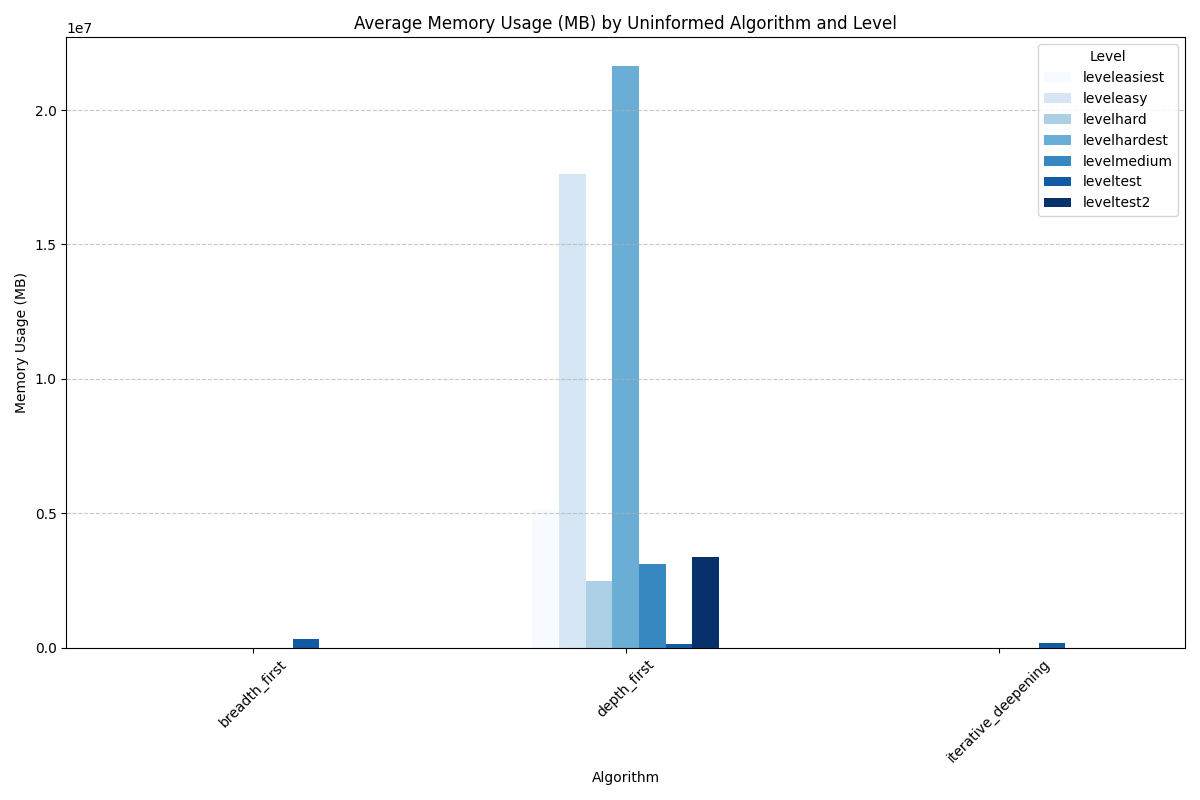
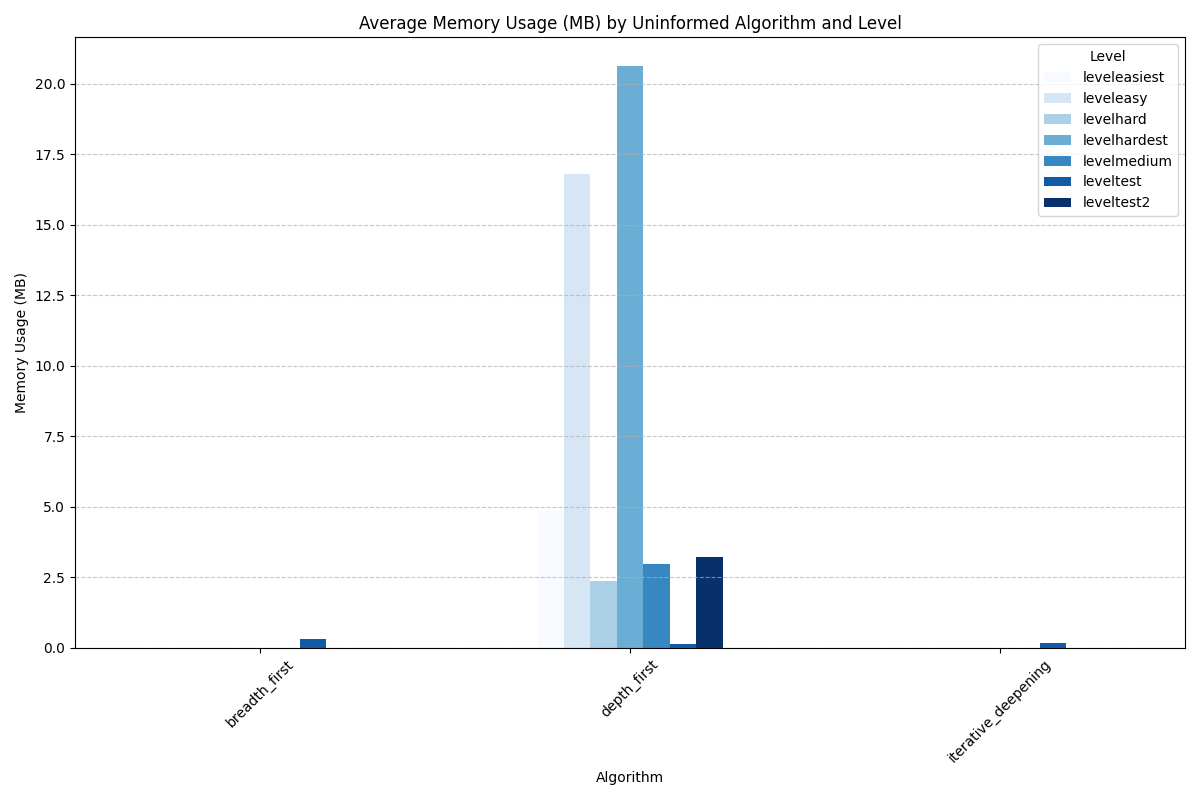
fix: fixed time lable

diff --git a/analysis.py b/analysis.py
@@ -1,28 +1,20 @@
 import pandas as pd
 import matplotlib.pyplot as plt
-import warnings
 import os
 import shutil
 
-# Create analysis folder (delete if exists)
 if os.path.exists("analysis"):
     shutil.rmtree("analysis")
 os.makedirs("analysis")
 
-# Optional: Suppress Axes3D warning if not using 3D plots
-warnings.filterwarnings("ignore", message=".*Unable to import Axes3D.*")
-
-# Load the CSV file
 df = pd.read_csv("test_results.csv")
 
-# Drop rows with missing values for key metrics
 df_clean = df.dropna(subset=["Time", "Memory", "Score", "Steps"])
 
-# Simplify level names (remove path and extension)
+# Convert Memory from bytes to MB
+df_clean["Memory"] = df_clean["Memory"].astype(float) / (1024 * 1024)
+
 df_clean["Level"] = df_clean["Level"].str.replace("./levels/", "", regex=False).str.replace(".txt", "", regex=False)
-
-
-# Define algorithm categories
 uninformed_algorithms = ["depth_first", "breadth_first", "iterative_deepening"]
 df_uninformed = df_clean[df_clean["Algorithm"].isin(uninformed_algorithms)]
 df_informed = df_clean[~df_clean["Algorithm"].isin(uninformed_algorithms)]
@@ -44,7 +36,7 @@ def plot_metrics(metric: str, ylabel: str, base_filename: str):
         ax.grid(axis='y', linestyle="--", alpha=0.7)
         ax.set_xticklabels(ax.get_xticklabels(), rotation=45)
         
-        # Set integer y-ticks for Steps metric
+
         if metric == "Steps":
             import matplotlib.ticker as ticker
             ax.yaxis.set_major_locator(ticker.MaxNLocator(integer=True))
@@ -54,8 +46,7 @@ def plot_metrics(metric: str, ylabel: str, base_filename: str):
         plt.savefig(os.path.join("analysis", f"{group_name.lower()}_{base_filename}"))
         plt.close()
 
-# Example usage:
-plot_metrics("Time", "Execution Time (ms)", "time.png")
+plot_metrics("Time", "Execution Time (s)", "time.png")
 plot_metrics("Memory", "Memory Usage (MB)", "memory.png")
 plot_metrics("Score", "Score", "score.png")
 plot_metrics("Steps", "Steps Taken", "steps.png")
